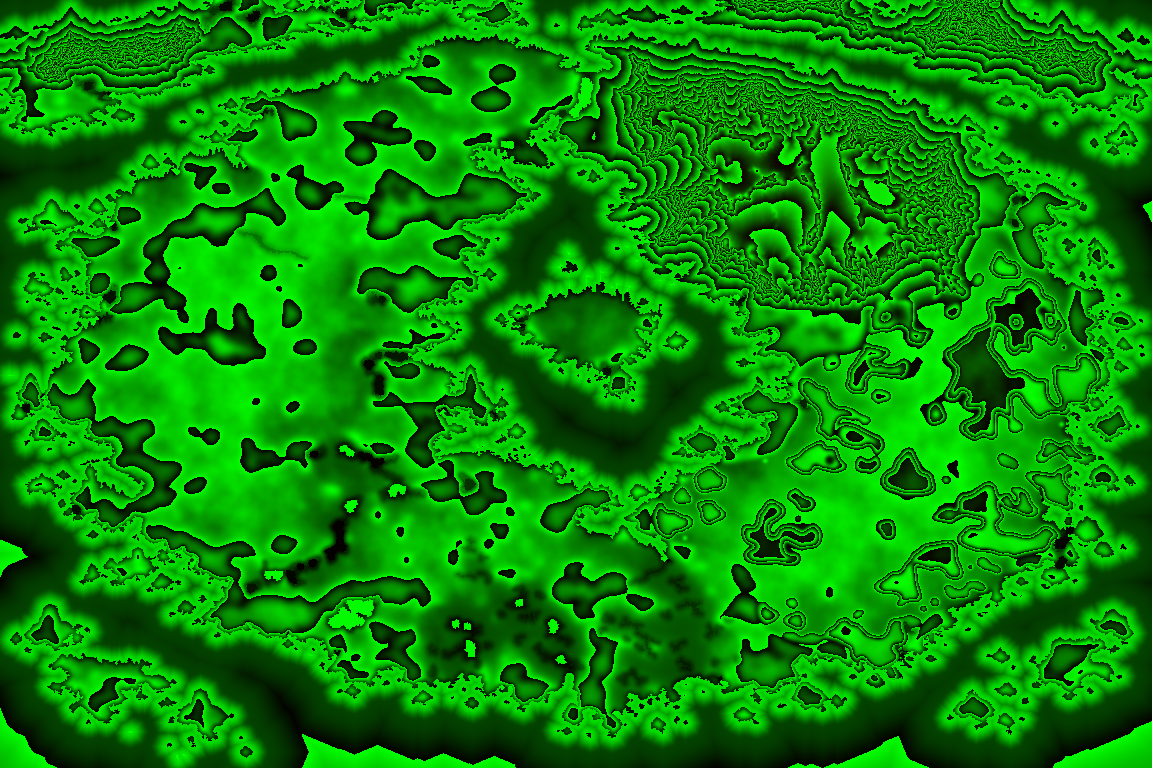
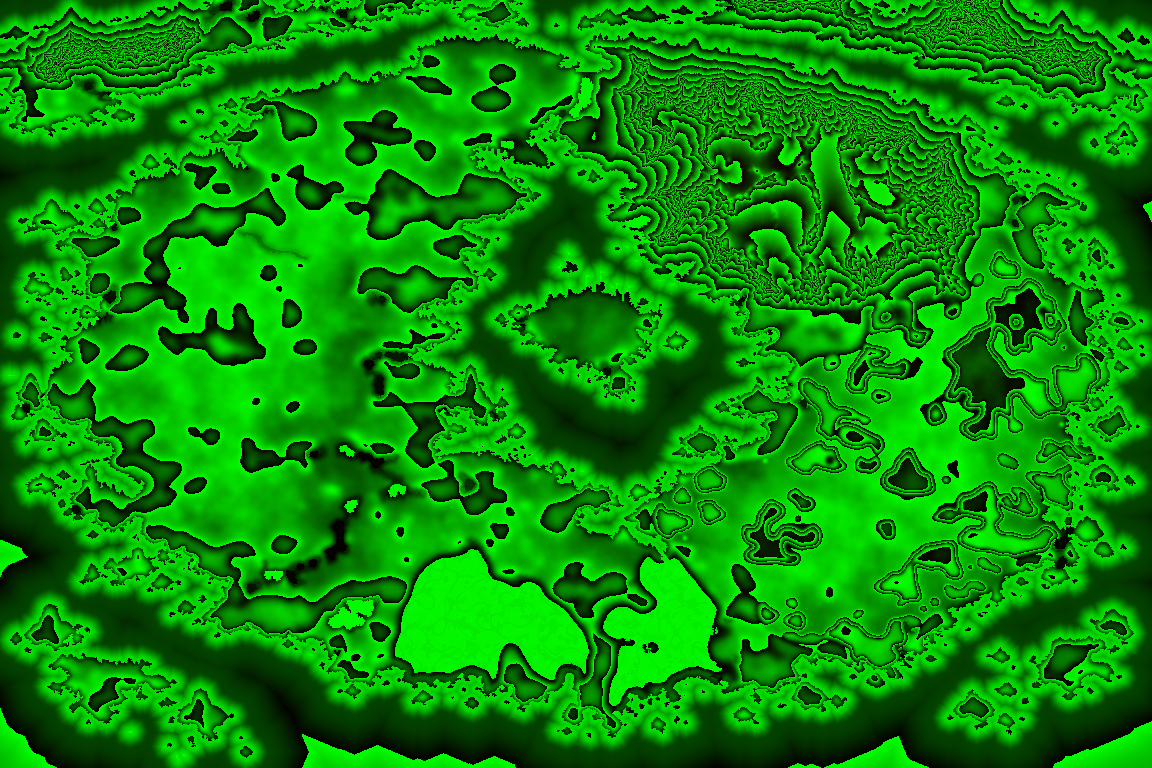
World map: the bog at sea level round Bogmire and the fen's dark heart, cliffs at its shore; the zone line a thin violet dash
Chris (November 17): Bogmire and the fen's dark heart stood on high ground (105 m and 148 m); that whole stretch is
bog down to the sea with water all through it and cliffs at the shore. Both now stand in fen at 13 m. The gold band
round Io's zone read as a strip of sand: it is a thin dashed line of violet light now.

Claude-Session: https://claude.ai/code/session_0193WyVCYZfXoKRL5N8nneCc

Changed region(s): [[0.3125, 0.6875, 0.6562, 0.9375]]

diff --git a/moon-faire-witches/world-map/map/map3d.js b/moon-faire-witches/world-map/map/map3d.js
@@ -110,8 +110,10 @@
         float meet = max(max(max(z.r * z.g, z.g * z.b), max(z.b * z.a, z.r * z.a)), max(z.r * z.b, z.g * z.a));
         float line = smoothstep(0.215, 0.245, meet) + smoothstep(0.22, 0.248, sum * (1.0 - sum)) * step(0.02, sum);
         c += vec3(0.62, 0.66, 0.85) * clamp(line, 0.0, 1.0) * 0.16 * inMap;
-        float m = dot(z, uHere), ring = smoothstep(0.215, 0.245, m * (1.0 - m));
-        c = mix(c, vec3(1.0, 0.84, 0.5), ring * (0.42 + 0.2 * uGlow) * inMap);
+        // the edge of the zone Io is in: a thin line of pale violet light in dashes (Chris, November 17: the gold band
+        // it was looked like a strip of sand lying on the land)
+        float m = dot(z, uHere), ring = smoothstep(0.236, 0.249, m * (1.0 - m)), dash = step(0.24, fract(wp.x / 17.0)) * step(0.24, fract(wp.z / 17.0));
+        c = mix(c, vec3(0.72, 0.62, 1.0), ring * dash * (0.62 + 0.25 * uGlow) * inMap);
       }
       return mix(c, uFog, smoothstep(uFogNear, uFogFar, depth));
     }`;
